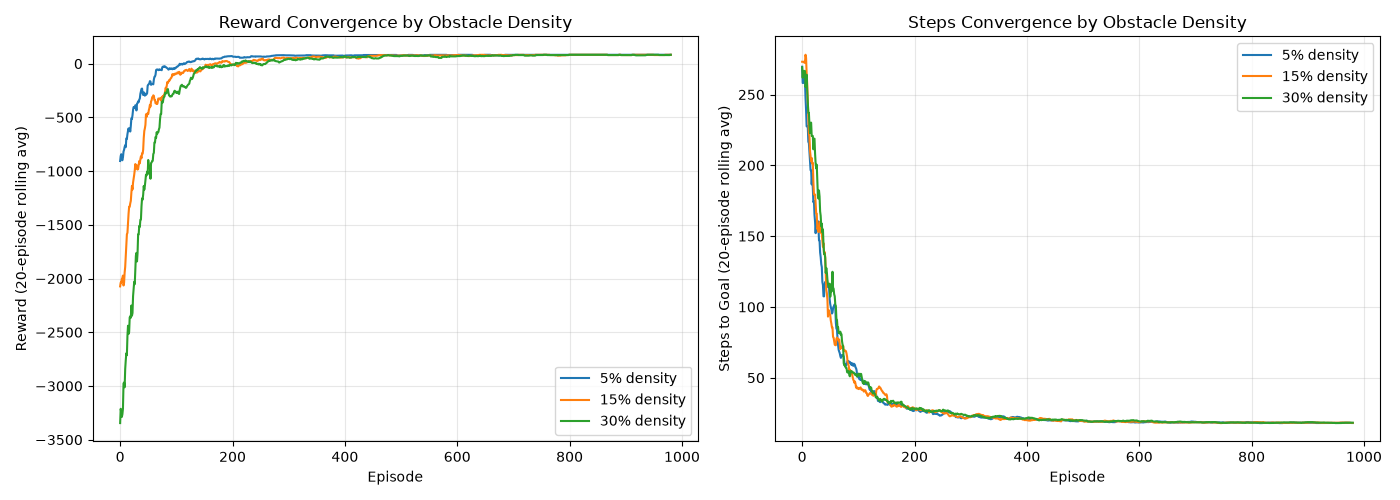
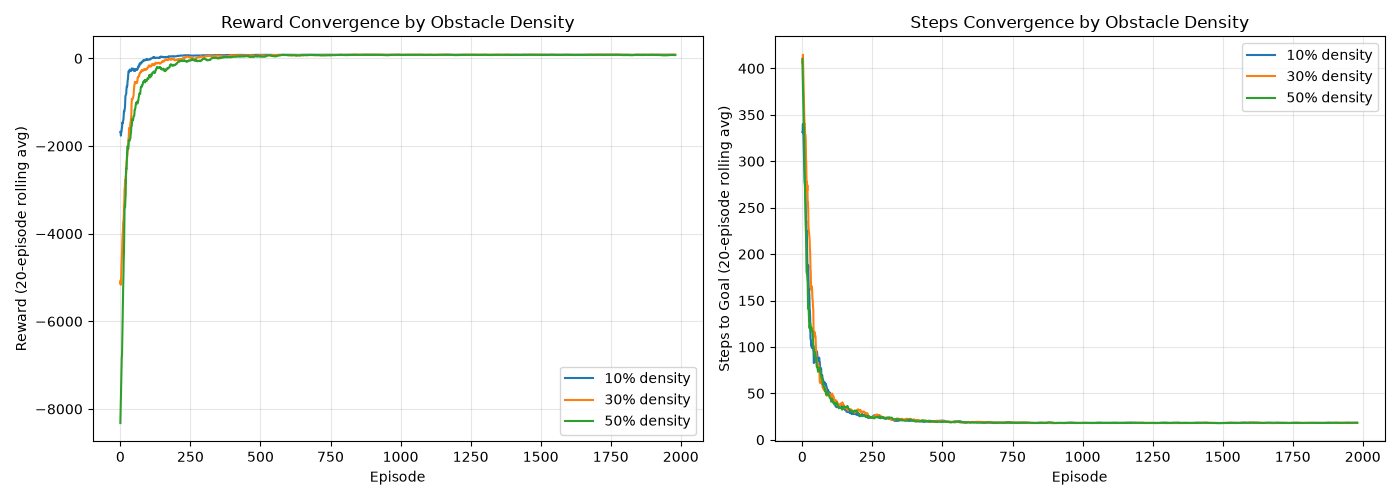
Add custom obstacle placement tab with live training and solvability checking

diff --git a/app.py b/app.py
@@ -2,10 +2,57 @@ import streamlit as st
 import numpy as np
 import json
 import time
+from collections import deque
 import matplotlib.pyplot as plt
 from environment.grid_world import GridWorld
+from agent.q_learning_agent import QLearningAgent
 
 st.set_page_config(page_title="Autonomous Path Planning", layout="wide")
+
+# --- Custom CSS to make the obstacle grid compact and tidy ---
+st.markdown("""
+<style>
+div[data-testid="stHorizontalBlock"] {
+    gap: 2px !important;
+}
+div[data-testid="column"] {
+    width: 34px !important;
+    min-width: 34px !important;
+    max-width: 34px !important;
+    flex: none !important;
+    padding: 0px !important;
+    display: flex;
+    justify-content: center;
+    align-items: center;
+}
+div[data-testid="stCheckbox"] {
+    display: flex;
+    justify-content: center;
+    align-items: center;
+    border: 1px solid #444;
+    border-radius: 4px;
+    width: 30px;
+    height: 30px;
+    background-color: #1e1e1e;
+}
+div[data-testid="stCheckbox"] label {
+    display: flex;
+    justify-content: center;
+    align-items: center;
+    width: 100%;
+    height: 100%;
+    margin: 0 !important;
+}
+div[data-testid="stCheckbox"] label div:first-child {
+    margin: 0 !important;
+}
+div[data-testid="stMarkdownContainer"] p {
+    text-align: center;
+    font-size: 20px;
+    margin: 0 !important;
+}
+</style>
+""", unsafe_allow_html=True)
 
 DATA_DIR = 'results/webapp_data'
 
@@ -16,6 +63,12 @@ SCENARIOS = {
     "Low Obstacle Density (5%)": "density_low",
     "High Obstacle Density (30%)": "density_high",
 }
+
+CUSTOM_SIZE = 10
+CUSTOM_START = (0, 0)
+CUSTOM_GOAL = (9, 9)
+CUSTOM_EPISODES = 800
+CUSTOM_MAX_STEPS = 200
 
 
 @st.cache_data
@@ -32,7 +85,6 @@ def get_path(q_table, config):
     state = env.reset()
     path = [state]
     visited_recently = []
-
     max_steps = config['size'] * config['size'] * 2
 
     for _ in range(max_steps):
@@ -40,34 +92,27 @@ def get_path(q_table, config):
         action = int(np.argmax(q_table[x, y]))
         next_state, reward, done, _ = env.step(action)
 
-        # Detect a 2-state oscillation loop (A -> B -> A -> B ...)
         if len(visited_recently) >= 2 and next_state == visited_recently[-2]:
             q_values = q_table[x, y].copy()
-            q_values[action] = -np.inf  # rule out the looping action
+            q_values[action] = -np.inf
             action = int(np.argmax(q_values))
             next_state, reward, done, _ = env.step(action)
 
         path.append(next_state)
         visited_recently.append(state)
         state = next_state
-
         if done:
             break
 
     return path, done
 
 
-def draw_grid(config, path_so_far, full_path_length):
-    size = config['size']
-    obstacles = [tuple(o) for o in config['obstacles']]
-    start = tuple(config['start'])
-    goal = tuple(config['goal'])
-
+def draw_grid(size, obstacles, start, goal, path_so_far, full_path_length):
     grid_display = np.zeros((size, size))
     for ox, oy in obstacles:
         grid_display[ox, oy] = -1
 
-    fig, ax = plt.subplots(figsize=(6, 6))
+    fig, ax = plt.subplots(figsize=(5, 5))
     ax.imshow(grid_display, cmap='gray_r')
 
     if len(path_so_far) > 1:
@@ -86,6 +131,40 @@ def draw_grid(config, path_so_far, full_path_length):
     return fig
 
 
+def is_solvable(size, start, goal, obstacles):
+    obstacle_set = set(obstacles)
+    visited = set([start])
+    queue = deque([start])
+    while queue:
+        x, y = queue.popleft()
+        if (x, y) == goal:
+            return True
+        for dx, dy in [(-1, 0), (1, 0), (0, -1), (0, 1)]:
+            nx, ny = x + dx, y + dy
+            if 0 <= nx < size and 0 <= ny < size and (nx, ny) not in obstacle_set and (nx, ny) not in visited:
+                visited.add((nx, ny))
+                queue.append((nx, ny))
+    return False
+
+
+def train_live(obstacles):
+    env = GridWorld(size=CUSTOM_SIZE, start=CUSTOM_START, goal=CUSTOM_GOAL, obstacles=obstacles)
+    agent = QLearningAgent(grid_size=CUSTOM_SIZE, action_space=env.action_space)
+
+    for episode in range(CUSTOM_EPISODES):
+        state = env.reset()
+        for step in range(CUSTOM_MAX_STEPS):
+            action = agent.choose_action(state)
+            next_state, reward, done, _ = env.step(action)
+            agent.update(state, action, reward, next_state, done)
+            state = next_state
+            if done:
+                break
+        agent.decay_epsilon()
+
+    return agent.q_table
+
+
 # --- UI ---
 
 st.title("Autonomous Path Planning — Q-Learning Agent")
@@ -95,36 +174,126 @@ having learned an optimal path to the goal through trial-and-error using the
 Bellman equation and epsilon-greedy exploration.
 """)
 
-col1, col2 = st.columns([1, 2])
+tab1, tab2 = st.tabs(["Pre-trained Scenarios", "Custom Obstacles (Live Training)"])
 
-with col1:
-    st.subheader("Scenario")
-    scenario_label = st.selectbox("Choose a trained scenario", list(SCENARIOS.keys()))
-    scenario_key = SCENARIOS[scenario_label]
-    q_table, config = load_scenario(scenario_key)
+# --- TAB 1: Pre-trained scenarios ---
+with tab1:
+    col1, col2 = st.columns([1, 2])
 
-    path, reached_goal = get_path(q_table, config)
+    with col1:
+        st.subheader("Scenario")
+        scenario_label = st.selectbox("Choose a trained scenario", list(SCENARIOS.keys()))
+        scenario_key = SCENARIOS[scenario_label]
+        q_table, config = load_scenario(scenario_key)
 
-    st.markdown(f"**Grid size:** {config['size']}x{config['size']}")
-    st.markdown(f"**Obstacles:** {len(config['obstacles'])}")
-    st.markdown(f"**Path length:** {len(path) - 1} steps")
-    st.markdown(f"**Reached goal:** {'Yes' if reached_goal else 'No'}")
+        path, reached_goal = get_path(q_table, config)
 
-    st.divider()
-    st.subheader("Playback")
-    play = st.button("▶ Play Animation")
-    speed = st.slider("Speed (seconds per step)", 0.05, 0.5, 0.15)
+        st.markdown(f"**Grid size:** {config['size']}x{config['size']}")
+        st.markdown(f"**Obstacles:** {len(config['obstacles'])}")
+        st.markdown(f"**Path length:** {len(path) - 1} steps")
+        st.markdown(f"**Reached goal:** {'Yes' if reached_goal else 'No'}")
 
-with col2:
-    plot_area = st.empty()
+        st.divider()
+        st.subheader("Playback")
+        play = st.button("▶ Play Animation", key="play_scenario")
+        speed = st.slider("Speed (seconds per step)", 0.05, 0.5, 0.15, key="speed_scenario")
 
-    if play:
-        for i in range(len(path)):
-            fig = draw_grid(config, path[:i + 1], len(path))
-            plot_area.pyplot(fig)
+    with col2:
+        plot_area = st.empty()
+
+        if play:
+            for i in range(len(path)):
+                fig = draw_grid(config['size'], [tuple(o) for o in config['obstacles']],
+                                 tuple(config['start']), tuple(config['goal']),
+                                 path[:i + 1], len(path))
+                plot_area.pyplot(fig, use_container_width=False)
+                plt.close(fig)
+                time.sleep(speed)
+        else:
+            fig = draw_grid(config['size'], [tuple(o) for o in config['obstacles']],
+                             tuple(config['start']), tuple(config['goal']),
+                             path, len(path))
+            plot_area.pyplot(fig, use_container_width=False)
             plt.close(fig)
-            time.sleep(speed)
-    else:
-        fig = draw_grid(config, path, len(path))
-        plot_area.pyplot(fig)
-        plt.close(fig)
+
+# --- TAB 2: Custom obstacles, live training ---
+with tab2:
+    st.markdown(f"Design your own obstacle layout on a {CUSTOM_SIZE}x{CUSTOM_SIZE} grid. "
+                f"🟢 Start is top-left, 🔴 Goal is bottom-right. "
+                f"Check a box to place an obstacle there, then train the agent live.")
+
+    if 'custom_obstacles' not in st.session_state:
+        st.session_state.custom_obstacles = set()
+
+    col_grid, col_controls = st.columns([1.2, 1])
+
+    with col_grid:
+        for r in range(CUSTOM_SIZE):
+            cols = st.columns(CUSTOM_SIZE)
+            for c in range(CUSTOM_SIZE):
+                cell = (r, c)
+                with cols[c]:
+                    if cell == CUSTOM_START:
+                        st.markdown("🟢")
+                    elif cell == CUSTOM_GOAL:
+                        st.markdown("🔴")
+                    else:
+                        checked = cell in st.session_state.custom_obstacles
+                        new_val = st.checkbox("", value=checked, key=f"cell_{r}_{c}", label_visibility="collapsed")
+                        if new_val:
+                            st.session_state.custom_obstacles.add(cell)
+                        else:
+                            st.session_state.custom_obstacles.discard(cell)
+
+    with col_controls:
+        st.markdown(f"**Obstacles placed:** {len(st.session_state.custom_obstacles)}")
+
+        if st.button("Clear All Obstacles"):
+            st.session_state.custom_obstacles = set()
+            st.rerun()
+
+        run_button = st.button("🚀 Check & Train Agent", type="primary")
+
+        if run_button:
+            obstacles = list(st.session_state.custom_obstacles)
+
+            if not is_solvable(CUSTOM_SIZE, CUSTOM_START, CUSTOM_GOAL, obstacles):
+                st.error("❌ No path exists from Start to Goal with this obstacle layout. "
+                          "Remove some obstacles and try again.")
+            else:
+                with st.spinner(f"Training agent live ({CUSTOM_EPISODES} episodes)..."):
+                    q_table = train_live(obstacles)
+
+                config = {'size': CUSTOM_SIZE, 'obstacles': obstacles,
+                          'start': list(CUSTOM_START), 'goal': list(CUSTOM_GOAL)}
+                path, reached_goal = get_path(q_table, config)
+
+                st.session_state.custom_result = {
+                    'path': path, 'reached_goal': reached_goal,
+                    'obstacles': obstacles
+                }
+                st.success(f"✅ Training complete! Path length: {len(path) - 1} steps")
+
+    if 'custom_result' in st.session_state:
+        result = st.session_state.custom_result
+        st.divider()
+        st.subheader("Result")
+
+        result_col, _ = st.columns([1, 1])
+
+        with result_col:
+            play_custom = st.button("▶ Play Animation", key="play_custom")
+            plot_area_custom = st.empty()
+
+            if play_custom:
+                for i in range(len(result['path'])):
+                    fig = draw_grid(CUSTOM_SIZE, result['obstacles'], CUSTOM_START, CUSTOM_GOAL,
+                                     result['path'][:i + 1], len(result['path']))
+                    plot_area_custom.pyplot(fig, use_container_width=False)
+                    plt.close(fig)
+                    time.sleep(0.15)
+            else:
+                fig = draw_grid(CUSTOM_SIZE, result['obstacles'], CUSTOM_START, CUSTOM_GOAL,
+                                 result['path'], len(result['path']))
+                plot_area_custom.pyplot(fig, use_container_width=False)
+                plt.close(fig)